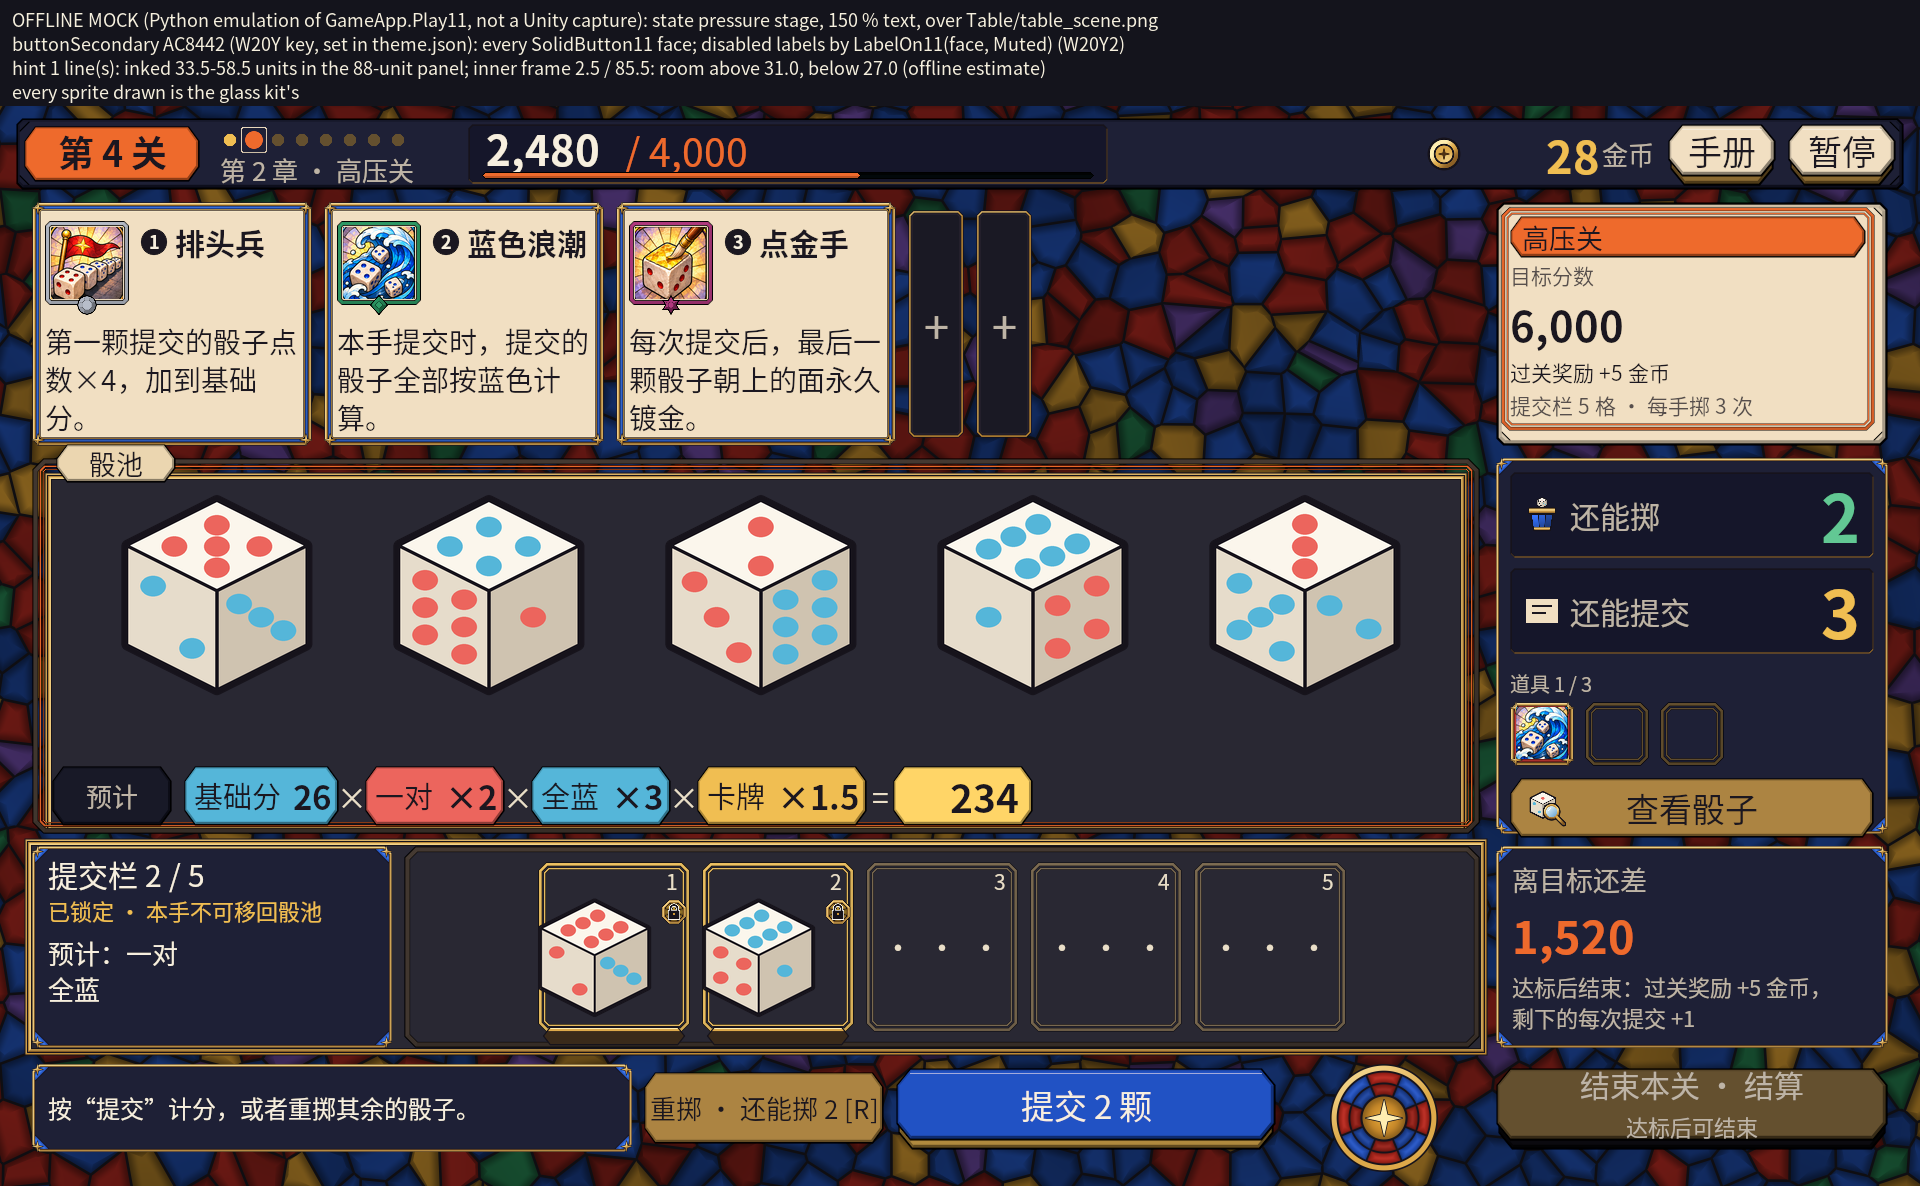
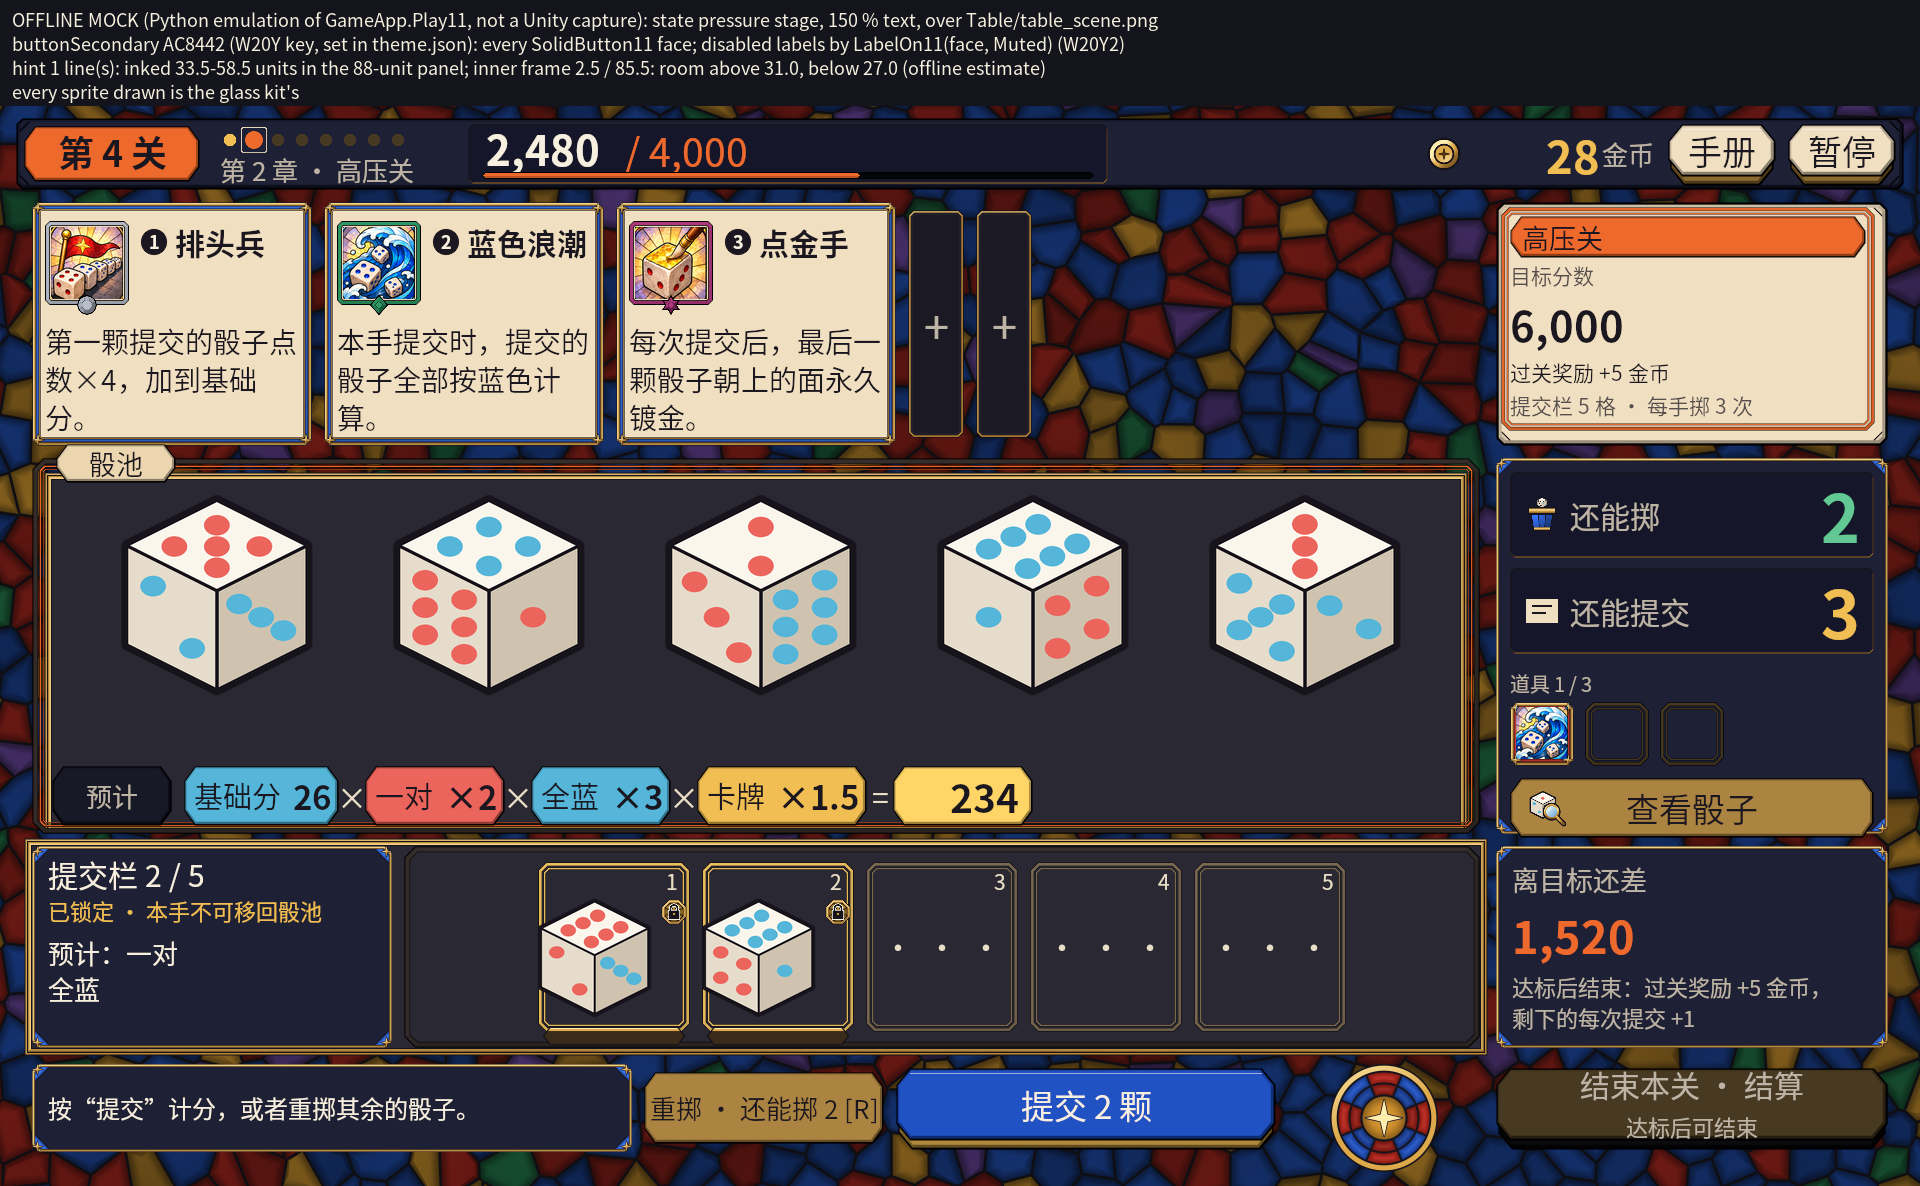
art(v1.1 W20Z2): glass panelLight 483A22 - a disabled secondary button reads disabled as drawn
Item 5. W20Z measured glass's disabled SolidButton11 at 3.18 CIEDE2000 from the enabled face with the same lead-black
label: LabelOn11 lightened the 25 % panelLight mix two steps under ink. As deco 2b did, only the generator's palette
changes: panelLight 64502F -> 483A22 (same hue 37.9 deg and saturation 0.53, L* 35.3 -> 25.3). The disabled mix
93723A is now deepened 3 steps to 7E6132 (C# float; 7E6232 in the generator's 8-bit report) under the marble-white
label 5.03:1, 15.1 CIEDE2000 from the enabled face; the deciding contrasts stay 0.07 or more from 4.95. AX-08, the
stage tag's label (9.65, no steps) and the enabled buttonSecondary contrasts are unchanged; weaker: the normal stage
tag, unreached chapter points and empty item rings against the top bar / dark panels 2.08 -> 1.45, the tray rim 1.32
-> 1.09, empty shop slots 1.42 -> 1.10, the selected flat tab and the settings track 2.44 -> 1.70.

Rebuilt with build_glass.py, --review and --card-review: of the shipped files only theme.json and preview.png
change; contact sheet and 29 review files redrawn. The disabled-button test now judges the face as drawn (it read
the lerp face before LabelOn11) and checks the deciding margins as deco's does. Glass tests 47/47, strict audit
AUDIT_OK.

Changed region(s): [[0.7812, 0.9047, 1.0, 0.9671], [0.1562, 0.0936, 0.2188, 0.1248], [0.8438, 0.5927, 0.875, 0.6239]]

diff --git a/tests/test_art_v11_glass.py b/tests/test_art_v11_glass.py
@@ -1027,17 +1027,49 @@ class GlassArtTests(unittest.TestCase):
         self.assertGreaterEqual(float(contrast(came, hex_rgb(p["paper"]))), 10.0)
 
     def test_a_disabled_secondary_button_looks_disabled(self):
-        # Coordinator (lesson from the deco kit): SolidButton11 draws a disabled face a quarter toward panelLight; that
-        # face must differ from the enabled one by 5 CIEDE2000 or more, or its label (W20Y2: LabelOn11(face, Muted)) must
-        # differ from the enabled label.
+        # Coordinator (lesson from the deco kit): SolidButton11 draws a disabled face a quarter toward panelLight, and its
+        # label is LabelOn11(face, Muted) (W20Y2), which writes its steps into the face. W20Z2 (2026-11-19): judged as drawn,
+        # after those steps - the disabled face differs from the enabled one by 5 CIEDE2000 or more, or it takes the other
+        # label (until W20Z2 the test read the lerp face before LabelOn11, 5.38, while the face as drawn was 3.18 from the
+        # enabled one with the same ink label). With panelLight 483A22 it does both, as deco 2b does: LabelOn11 deepens the
+        # face 3 steps under the marble-white label instead of lightening it under ink. The branch is nowhere near flipping:
+        # the deciding contrasts, unquantised as the C# Color holds them, stay 0.05 or more from 4.95, and lightening needs
+        # as many steps or more (a tie deepens). panelLight's other uses keep their rules: the normal stage tag's label at
+        # 4.95:1 without steps, the disabled UiKit.Button's Muted label at 3:1.
         p = self.palette
+        rgb = lambda k: np.array(hex_rgb(p[k]), dtype=np.float64)
         white = np.array((255, 255, 255), dtype=np.float64)
         on = np.array(hex_rgb(BUTTON_SECONDARY), dtype=np.float64)
-        off = lerp(on, hex_rgb(p["panelLight"]), .25)
-        on_label = label_on(white, on, p, preferred=np.array(hex_rgb(p["textColor"]), dtype=np.float64))[0]
-        off_label = label_on(white, off, p, preferred=np.array(hex_rgb(p["muted"]), dtype=np.float64))[0]
-        distinct = de00(on, np.rint(off)) >= 5.0 or not np.array_equal(on_label, off_label)
-        self.assertTrue(distinct, f"dE00 {de00(on, np.rint(off)):.2f}, labels {on_label} / {off_label}")
+        off_start = lerp(on, rgb("panelLight"), .25)
+        on_label, on_tint, _ = label_on(white, on, p, preferred=rgb("textColor"))
+        off_label, off_tint, off_steps = label_on(white, off_start, p, preferred=rgb("muted"))
+        on_face, off_face = tinted(white, on_tint), tinted(white, off_tint)
+        distinct = de00(on_face, off_face) >= 5.0 or not np.array_equal(on_label, off_label)
+        self.assertTrue(distinct, f"as drawn: dE00 {de00(on_face, off_face):.2f}, labels {on_label} / {off_label}")
+        self.assertGreaterEqual(de00(on_face, off_face), 5.0)
+        self.assertFalse(np.array_equal(on_label, off_label), "the disabled button takes the other label")
+        self.assertTrue(np.array_equal(off_label, rgb("textColor")), "deepened under the marble-white label")
+        self.assertGreaterEqual(float(contrast(off_label, off_face)), 4.95)
+
+        def exact(tint):
+            linear = channel(white) * channel(tint)
+            return np.where(linear <= .0031308, linear * 12.92, 1.055 * np.power(linear, 1 / 2.4) - .055) * 255
+
+        def trace(toward, label):
+            t, out = off_start / 255.0, []
+            for _ in range(12):
+                out.append(float(contrast(label, exact(t * 255.0))))
+                t = t + (np.asarray(toward, dtype=np.float64) - t) * .05
+            return out
+        deepen, lighten = trace((0, 0, 0), rgb("textColor")), trace((1, 1, 1), rgb("ink"))
+        self.assertGreater(off_steps, 0)
+        self.assertGreaterEqual(deepen[off_steps], 4.95 + .05)
+        self.assertLessEqual(deepen[off_steps - 1], 4.95 - .05)
+        self.assertLessEqual(lighten[off_steps - 1], 4.95 - .05, "lightening needs as many steps or more (a tie deepens)")
+        tag_label, _, tag_steps = label_on(white, rgb("panelLight"), p)
+        self.assertEqual(tag_steps, 0)
+        self.assertGreaterEqual(float(contrast(tag_label, tinted(white, rgb("panelLight")))), 4.95)
+        self.assertGreaterEqual(float(contrast(rgb("muted"), rgb("panelLight"))), 3.0)
 
     def test_value_and_warning_badges_stay_apart(self):
         # THEME_SPEC 2 valueBadge: a card's value badge (valueBadge, unset means gold) and its warning badge (danger) are

diff --git a/tools/art_v11/glass/build_glass.py b/tools/art_v11/glass/build_glass.py
@@ -72,9 +72,12 @@ PALETTE = {
     "felt": "292833",         # the concept's slate floor (roll.png dice area median 292831; the plate's 2B2A33)
     "panel": "1E2036",        # night glass: dark panels, the top bar, secondary chips (light text on it)
     # Antique bronze: normal-stage tag, frame edges, empty item rings, disabled faces. Phase 2 deepened it a little (from
-    # 6B5632, CIEDE2000 2.3) so a disabled SolidButton11, lerp(buttonSecondary, panelLight, .25), differs from the enabled
-    # face by at least 5 CIEDE2000 (coordinator, lesson from the deco kit; README, "buttonSecondary").
-    "panelLight": "64502F",
+    # 6B5632 to 64502F) for the lerp face; W20Z2 (coordinator 2026-11-19, as deco 2b did) deepened it again, same hue and
+    # saturation (37.4 deg, 0.53), to 483A22 (L* 35.3 -> 25.3): a disabled SolidButton11, lerp(buttonSecondary, panelLight,
+    # .25) = 93723A, is now deepened 3 steps by LabelOn11(face, Muted) to 7E6132 under the marble-white label instead of
+    # lightened 2 steps under ink, so as drawn it differs from the enabled face by 15.1 CIEDE2000 (3.18 in the W20Z
+    # captures) and takes the other label (README, "buttonSecondary").
+    "panelLight": "483A22",
     "paper": "F1DFC2",        # parchment (concept 2.1 roll/select parchment F2D4B2, lifted for ink contrast)
     "ink": "1B1720",          # lead black: text on parchment
     "textColor": "F7EFDF",    # marble white: text on the dark panels
@@ -112,8 +115,9 @@ W20X_TOKENS = {
 # AC8442 (amber glass): label ink 5.15 (LabelOn11, >= 4.95), on felt 4.24, on panel (dark panels, top bar) 4.66, on the
 # background 5.48; on paper 2.62 - under 3:1, the chip's black lead outline gives the boundary on parchment (16:1). With
 # this palette no face reaches 3:1 on felt and on paper and also takes a 4.95 label. Disabled (a quarter toward
-# panelLight): 9A773D, 5.38 CIEDE2000 from the enabled face; LabelOn11(face, Muted) lightens it 2 steps to A48450 (3.33)
-# and picks ink like the enabled label (README, "buttonSecondary").
+# panelLight 483A22, W20Z2): 93723A; LabelOn11(face, Muted) deepens it 3 steps to 7E6132 under the marble-white label
+# (5.03:1), 15.1 CIEDE2000 from the enabled face (before W20Z2: 9A773D lightened 2 steps to A48450 under ink, 3.33;
+# README, "buttonSecondary").
 W20Y_TOKENS = {
     "buttonSecondary": "AC8442",
 }
